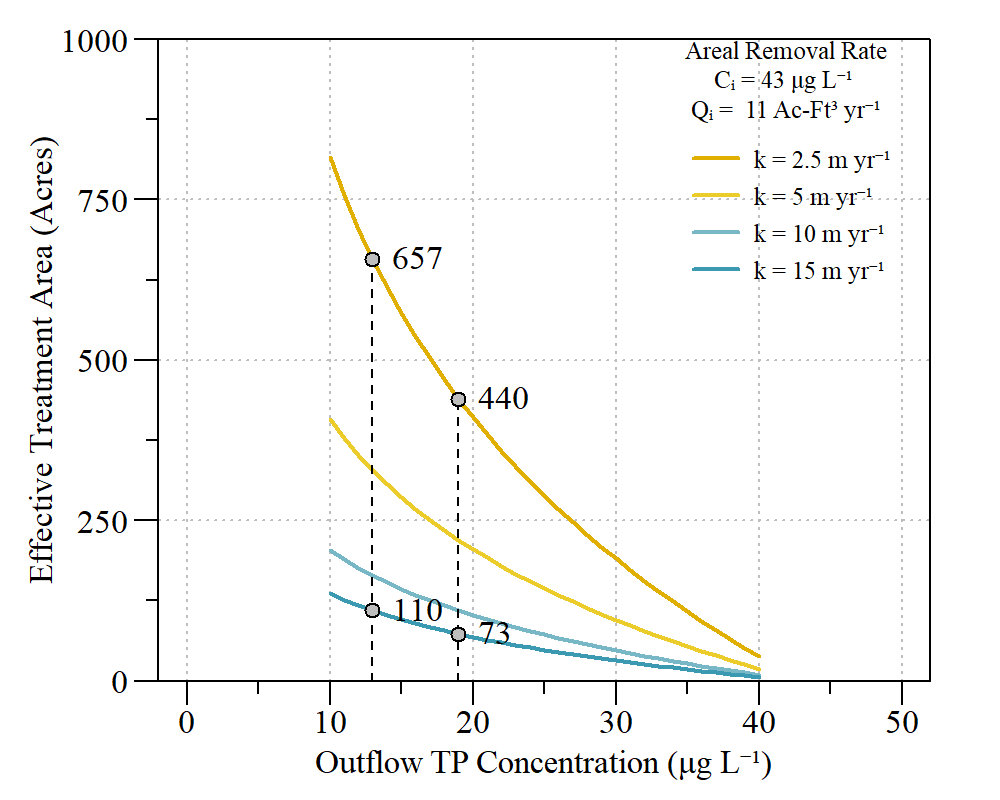
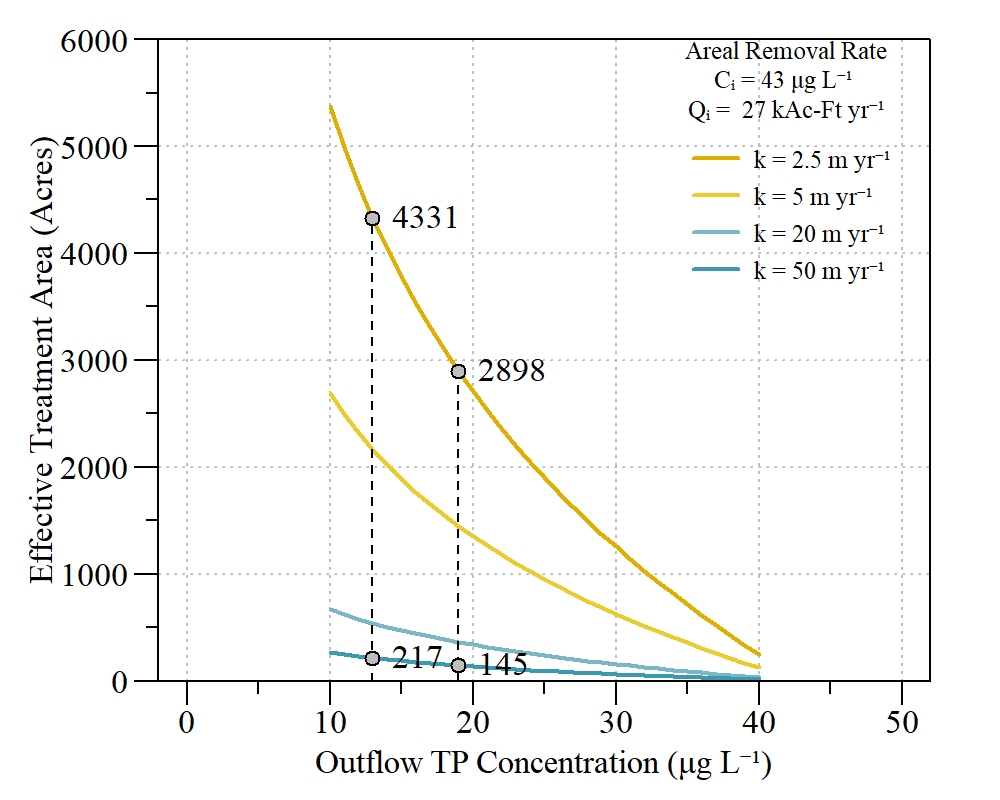
errors in analysis

diff --git a/slides/20230117_WERP_Listening.html b/slides/20230117_WERP_Listening.html
@@ -83,7 +83,7 @@ name: WFEEDERWQ
 * As detailed in *"Numeric Interpretation of Narrative Standards for the L-28 Interceptor Canal and Big Cypress National Preserve."* &lt;sup&gt;1&lt;/sup&gt; a numeric interpretation of the narrative water quality standard was developed for WERP to be protective of the downstream OFW (Big Cypress National Preserve).
 
 
-&lt;template id="55512d3d-b409-4fb4-874d-fc2a1379244f"&gt;&lt;style&gt;
+&lt;template id="f0b84952-d7ed-46c0-8ea0-a3a175d5d657"&gt;&lt;style&gt;
 .tabwid table{
   border-collapse:collapse;
   line-height:1;
@@ -117,11 +117,11 @@ name: WFEEDERWQ
 .tabwid table tr {
 background-color: transparent;
 }
-&lt;/style&gt;&lt;div class="tabwid"&gt;&lt;style&gt;.cl-326d9ef6{border-collapse:collapse;}.cl-3263a48c{font-family:'Times New Roman';font-size:12pt;font-weight:normal;font-style:normal;text-decoration:none;color:rgba(0, 0, 0, 1.00);background-color:transparent;}.cl-3263a48d{font-family:'Times New Roman';font-size:11pt;font-weight:normal;font-style:normal;text-decoration:none;color:rgba(0, 0, 0, 1.00);background-color:transparent;}.cl-3263a48e{font-family:'Times New Roman';font-size:6.6pt;font-weight:normal;font-style:normal;text-decoration:none;color:rgba(0, 0, 0, 1.00);background-color:transparent;position: relative;bottom:3.3pt;}.cl-3263a48f{font-family:'Arial';font-size:6.6pt;font-weight:normal;font-style:normal;text-decoration:none;color:rgba(0, 0, 0, 1.00);background-color:transparent;position: relative;bottom:3.3pt;}.cl-3263a490{font-family:'Arial';font-size:11pt;font-weight:normal;font-style:normal;text-decoration:none;color:rgba(0, 0, 0, 1.00);background-color:transparent;}.cl-3263cb74{margin:0;text-align:left;border-bottom: 0 solid rgba(0, 0, 0, 1.00);border-top: 0 solid rgba(0, 0, 0, 1.00);border-left: 0 solid rgba(0, 0, 0, 1.00);border-right: 0 solid rgba(0, 0, 0, 1.00);padding-bottom:1.5pt;padding-top:1.5pt;padding-left:1.5pt;padding-right:1.5pt;line-height: 1;background-color:transparent;}.cl-3263cb75{margin:0;text-align:center;border-bottom: 0 solid rgba(0, 0, 0, 1.00);border-top: 0 solid rgba(0, 0, 0, 1.00);border-left: 0 solid rgba(0, 0, 0, 1.00);border-right: 0 solid rgba(0, 0, 0, 1.00);padding-bottom:1.5pt;padding-top:1.5pt;padding-left:1.5pt;padding-right:1.5pt;line-height: 1;background-color:transparent;}.cl-3263cb76{margin:0;text-align:left;border-bottom: 0 solid rgba(0, 0, 0, 1.00);border-top: 0 solid rgba(0, 0, 0, 1.00);border-left: 0 solid rgba(0, 0, 0, 1.00);border-right: 0 solid rgba(0, 0, 0, 1.00);padding-bottom:1.5pt;padding-top:1.5pt;padding-left:1.5pt;padding-right:1.5pt;line-height: 1;background-color:transparent;}.cl-3263cb77{margin:0;text-align:center;border-bottom: 0 solid rgba(0, 0, 0, 1.00);border-top: 0 solid rgba(0, 0, 0, 1.00);border-left: 0 solid rgba(0, 0, 0, 1.00);border-right: 0 solid rgba(0, 0, 0, 1.00);padding-bottom:1.5pt;padding-top:1.5pt;padding-left:1.5pt;padding-right:1.5pt;line-height: 1;background-color:transparent;}.cl-3263cb78{margin:0;text-align:left;border-bottom: 0 solid rgba(0, 0, 0, 1.00);border-top: 0 solid rgba(0, 0, 0, 1.00);border-left: 0 solid rgba(0, 0, 0, 1.00);border-right: 0 solid rgba(0, 0, 0, 1.00);padding-bottom:5pt;padding-top:5pt;padding-left:5pt;padding-right:5pt;line-height: 1;background-color:transparent;}.cl-326429a2{width:54pt;background-color:transparent;vertical-align: bottom;border-bottom: 0 solid rgba(0, 0, 0, 1.00);border-top: 0 solid rgba(0, 0, 0, 1.00);border-left: 0 solid rgba(0, 0, 0, 1.00);border-right: 0 solid rgba(0, 0, 0, 1.00);margin-bottom:0;margin-top:0;margin-left:0;margin-right:0;}.cl-326429a3{width:108pt;background-color:transparent;vertical-align: bottom;border-bottom: 0 solid rgba(0, 0, 0, 1.00);border-top: 0 solid rgba(0, 0, 0, 1.00);border-left: 0 solid rgba(0, 0, 0, 1.00);border-right: 0 solid rgba(0, 0, 0, 1.00);margin-bottom:0;margin-top:0;margin-left:0;margin-right:0;}.cl-326429a4{width:54pt;background-color:transparent;vertical-align: bottom;border-bottom: 2pt solid rgba(102, 102, 102, 1.00);border-top: 0 solid rgba(0, 0, 0, 1.00);border-left: 0 solid rgba(0, 0, 0, 1.00);border-right: 0 solid rgba(0, 0, 0, 1.00);margin-bottom:0;margin-top:0;margin-left:0;margin-right:0;}.cl-326429a5{width:108pt;background-color:transparent;vertical-align: bottom;border-bottom: 2pt solid rgba(102, 102, 102, 1.00);border-top: 0 solid rgba(0, 0, 0, 1.00);border-left: 0 solid rgba(0, 0, 0, 1.00);border-right: 0 solid rgba(0, 0, 0, 1.00);margin-bottom:0;margin-top:0;margin-left:0;margin-right:0;}.cl-326429a6{width:54pt;background-color:transparent;vertical-align: middle;border-bottom: 0 solid rgba(255, 255, 255, 0.00);border-top: 0 solid rgba(255, 255, 255, 0.00);border-left: 0 solid rgba(255, 255, 255, 0.00);border-right: 0 solid rgba(255, 255, 255, 0.00);margin-bottom:0;margin-top:0;margin-left:0;margin-right:0;}.cl-326429a7{width:108pt;background-color:transparent;vertical-align: middle;border-bottom: 0 solid rgba(255, 255, 255, 0.00);border-top: 0 solid rgba(255, 255, 255, 0.00);border-left: 0 solid rgba(255, 255, 255, 0.00);border-right: 0 solid rgba(255, 255, 255, 0.00);margin-bottom:0;margin-top:0;margin-left:0;margin-right:0;}.cl-326429a8{width:108pt;background-color:transparent;vertical-align: middle;border-bottom: 2pt solid rgba(102, 102, 102, 1.00);border-top: 2pt solid rgba(102, 102, 102, 1.00);border-left: 0 solid rgba(0, 0, 0, 1.00);border-right: 0 solid rgba(0, 0, 0, 1.00);margin-bottom:0;margin-top:0;margin-left:0;margin-right:0;}.cl-326429a9{width:54pt;background-color:transparent;vertical-align: middle;border-bottom: 2pt solid rgba(102, 102, 102, 1.00);border-top: 2pt solid rgba(102, 102, 102, 1.00);border-left: 0 solid rgba(0, 0, 0, 1.00);border-right: 0 solid rgba(0, 0, 0, 1.00);margin-bottom:0;margin-top:0;margin-left:0;margin-right:0;}&lt;/style&gt;&lt;table class='cl-326d9ef6'&gt;&lt;thead&gt;&lt;tr style="overflow-wrap:break-word;"&gt;&lt;td class="cl-326429a8"&gt;&lt;p class="cl-3263cb74"&gt;&lt;span class="cl-3263a48c"&gt; &lt;/span&gt;&lt;/p&gt;&lt;/td&gt;&lt;td class="cl-326429a9"&gt;&lt;p class="cl-3263cb75"&gt;&lt;span class="cl-3263a48c"&gt;Total&lt;br&gt;Phosphorus&lt;br&gt;(μg L⁻¹)&lt;/span&gt;&lt;/p&gt;&lt;/td&gt;&lt;td class="cl-326429a9"&gt;&lt;p class="cl-3263cb75"&gt;&lt;span class="cl-3263a48c"&gt;Total&lt;br&gt;Nitrogen&lt;br&gt;(mg L⁻¹)&lt;/span&gt;&lt;/p&gt;&lt;/td&gt;&lt;/tr&gt;&lt;/thead&gt;&lt;tbody&gt;&lt;tr style="overflow-wrap:break-word;"&gt;&lt;td class="cl-326429a3"&gt;&lt;p class="cl-3263cb76"&gt;&lt;span class="cl-3263a48d"&gt;Long-term (5-Year)&lt;/span&gt;&lt;span class="cl-3263a48e"&gt; 1 &lt;/span&gt;&lt;span class="cl-3263a48e"&gt; &lt;/span&gt;&lt;/p&gt;&lt;/td&gt;&lt;td class="cl-326429a2"&gt;&lt;p class="cl-3263cb77"&gt;&lt;span class="cl-3263a48d"&gt;13&lt;/span&gt;&lt;/p&gt;&lt;/td&gt;&lt;td class="cl-326429a2"&gt;&lt;p class="cl-3263cb77"&gt;&lt;span class="cl-3263a48d"&gt;1.00&lt;/span&gt;&lt;/p&gt;&lt;/td&gt;&lt;/tr&gt;&lt;tr style="overflow-wrap:break-word;"&gt;&lt;td class="cl-326429a5"&gt;&lt;p class="cl-3263cb76"&gt;&lt;span class="cl-3263a48d"&gt;Annual&lt;/span&gt;&lt;/p&gt;&lt;/td&gt;&lt;td class="cl-326429a4"&gt;&lt;p class="cl-3263cb77"&gt;&lt;span class="cl-3263a48d"&gt;21&lt;/span&gt;&lt;/p&gt;&lt;/td&gt;&lt;td class="cl-326429a4"&gt;&lt;p class="cl-3263cb77"&gt;&lt;span class="cl-3263a48d"&gt;1.24&lt;/span&gt;&lt;/p&gt;&lt;/td&gt;&lt;/tr&gt;&lt;/tbody&gt;&lt;tfoot&gt;&lt;tr style="overflow-wrap:break-word;"&gt;&lt;td  colspan="3"class="cl-326429a7"&gt;&lt;p class="cl-3263cb78"&gt;&lt;span class="cl-3263a48f"&gt; 1 &lt;/span&gt;&lt;span class="cl-3263a490"&gt;Long Term = Five (5) Florida Water Years (May - April).&lt;/span&gt;&lt;span class="cl-3263a490"&gt;; &lt;/span&gt;&lt;span class="cl-3263a48f"&gt; &lt;/span&gt;&lt;span class="cl-3263a490"&gt;Average geomtric mean concentraion.&lt;/span&gt;&lt;/p&gt;&lt;/td&gt;&lt;/tr&gt;&lt;/tfoot&gt;&lt;/table&gt;&lt;/div&gt;&lt;/template&gt;
-&lt;div class="flextable-shadow-host" id="9d11f7b6-8f8f-42b8-9557-e6dd01f1c1e2"&gt;&lt;/div&gt;
+&lt;/style&gt;&lt;div class="tabwid"&gt;&lt;style&gt;.cl-82f819e8{border-collapse:collapse;}.cl-82efd7b0{font-family:'Times New Roman';font-size:12pt;font-weight:normal;font-style:normal;text-decoration:none;color:rgba(0, 0, 0, 1.00);background-color:transparent;}.cl-82efd7b1{font-family:'Times New Roman';font-size:11pt;font-weight:normal;font-style:normal;text-decoration:none;color:rgba(0, 0, 0, 1.00);background-color:transparent;}.cl-82efd7b2{font-family:'Times New Roman';font-size:6.6pt;font-weight:normal;font-style:normal;text-decoration:none;color:rgba(0, 0, 0, 1.00);background-color:transparent;position: relative;bottom:3.3pt;}.cl-82efd7b3{font-family:'Arial';font-size:6.6pt;font-weight:normal;font-style:normal;text-decoration:none;color:rgba(0, 0, 0, 1.00);background-color:transparent;position: relative;bottom:3.3pt;}.cl-82efd7b4{font-family:'Arial';font-size:11pt;font-weight:normal;font-style:normal;text-decoration:none;color:rgba(0, 0, 0, 1.00);background-color:transparent;}.cl-82effed4{margin:0;text-align:left;border-bottom: 0 solid rgba(0, 0, 0, 1.00);border-top: 0 solid rgba(0, 0, 0, 1.00);border-left: 0 solid rgba(0, 0, 0, 1.00);border-right: 0 solid rgba(0, 0, 0, 1.00);padding-bottom:1.5pt;padding-top:1.5pt;padding-left:1.5pt;padding-right:1.5pt;line-height: 1;background-color:transparent;}.cl-82effed5{margin:0;text-align:center;border-bottom: 0 solid rgba(0, 0, 0, 1.00);border-top: 0 solid rgba(0, 0, 0, 1.00);border-left: 0 solid rgba(0, 0, 0, 1.00);border-right: 0 solid rgba(0, 0, 0, 1.00);padding-bottom:1.5pt;padding-top:1.5pt;padding-left:1.5pt;padding-right:1.5pt;line-height: 1;background-color:transparent;}.cl-82effed6{margin:0;text-align:left;border-bottom: 0 solid rgba(0, 0, 0, 1.00);border-top: 0 solid rgba(0, 0, 0, 1.00);border-left: 0 solid rgba(0, 0, 0, 1.00);border-right: 0 solid rgba(0, 0, 0, 1.00);padding-bottom:1.5pt;padding-top:1.5pt;padding-left:1.5pt;padding-right:1.5pt;line-height: 1;background-color:transparent;}.cl-82effed7{margin:0;text-align:center;border-bottom: 0 solid rgba(0, 0, 0, 1.00);border-top: 0 solid rgba(0, 0, 0, 1.00);border-left: 0 solid rgba(0, 0, 0, 1.00);border-right: 0 solid rgba(0, 0, 0, 1.00);padding-bottom:1.5pt;padding-top:1.5pt;padding-left:1.5pt;padding-right:1.5pt;line-height: 1;background-color:transparent;}.cl-82effed8{margin:0;text-align:left;border-bottom: 0 solid rgba(0, 0, 0, 1.00);border-top: 0 solid rgba(0, 0, 0, 1.00);border-left: 0 solid rgba(0, 0, 0, 1.00);border-right: 0 solid rgba(0, 0, 0, 1.00);padding-bottom:5pt;padding-top:5pt;padding-left:5pt;padding-right:5pt;line-height: 1;background-color:transparent;}.cl-82f02684{width:54pt;background-color:transparent;vertical-align: bottom;border-bottom: 0 solid rgba(0, 0, 0, 1.00);border-top: 0 solid rgba(0, 0, 0, 1.00);border-left: 0 solid rgba(0, 0, 0, 1.00);border-right: 0 solid rgba(0, 0, 0, 1.00);margin-bottom:0;margin-top:0;margin-left:0;margin-right:0;}.cl-82f02685{width:108pt;background-color:transparent;vertical-align: bottom;border-bottom: 0 solid rgba(0, 0, 0, 1.00);border-top: 0 solid rgba(0, 0, 0, 1.00);border-left: 0 solid rgba(0, 0, 0, 1.00);border-right: 0 solid rgba(0, 0, 0, 1.00);margin-bottom:0;margin-top:0;margin-left:0;margin-right:0;}.cl-82f02686{width:54pt;background-color:transparent;vertical-align: bottom;border-bottom: 2pt solid rgba(102, 102, 102, 1.00);border-top: 0 solid rgba(0, 0, 0, 1.00);border-left: 0 solid rgba(0, 0, 0, 1.00);border-right: 0 solid rgba(0, 0, 0, 1.00);margin-bottom:0;margin-top:0;margin-left:0;margin-right:0;}.cl-82f02687{width:108pt;background-color:transparent;vertical-align: bottom;border-bottom: 2pt solid rgba(102, 102, 102, 1.00);border-top: 0 solid rgba(0, 0, 0, 1.00);border-left: 0 solid rgba(0, 0, 0, 1.00);border-right: 0 solid rgba(0, 0, 0, 1.00);margin-bottom:0;margin-top:0;margin-left:0;margin-right:0;}.cl-82f02688{width:54pt;background-color:transparent;vertical-align: middle;border-bottom: 0 solid rgba(255, 255, 255, 0.00);border-top: 0 solid rgba(255, 255, 255, 0.00);border-left: 0 solid rgba(255, 255, 255, 0.00);border-right: 0 solid rgba(255, 255, 255, 0.00);margin-bottom:0;margin-top:0;margin-left:0;margin-right:0;}.cl-82f02689{width:108pt;background-color:transparent;vertical-align: middle;border-bottom: 0 solid rgba(255, 255, 255, 0.00);border-top: 0 solid rgba(255, 255, 255, 0.00);border-left: 0 solid rgba(255, 255, 255, 0.00);border-right: 0 solid rgba(255, 255, 255, 0.00);margin-bottom:0;margin-top:0;margin-left:0;margin-right:0;}.cl-82f0268a{width:108pt;background-color:transparent;vertical-align: middle;border-bottom: 2pt solid rgba(102, 102, 102, 1.00);border-top: 2pt solid rgba(102, 102, 102, 1.00);border-left: 0 solid rgba(0, 0, 0, 1.00);border-right: 0 solid rgba(0, 0, 0, 1.00);margin-bottom:0;margin-top:0;margin-left:0;margin-right:0;}.cl-82f0268b{width:54pt;background-color:transparent;vertical-align: middle;border-bottom: 2pt solid rgba(102, 102, 102, 1.00);border-top: 2pt solid rgba(102, 102, 102, 1.00);border-left: 0 solid rgba(0, 0, 0, 1.00);border-right: 0 solid rgba(0, 0, 0, 1.00);margin-bottom:0;margin-top:0;margin-left:0;margin-right:0;}&lt;/style&gt;&lt;table class='cl-82f819e8'&gt;&lt;thead&gt;&lt;tr style="overflow-wrap:break-word;"&gt;&lt;td class="cl-82f0268a"&gt;&lt;p class="cl-82effed4"&gt;&lt;span class="cl-82efd7b0"&gt; &lt;/span&gt;&lt;/p&gt;&lt;/td&gt;&lt;td class="cl-82f0268b"&gt;&lt;p class="cl-82effed5"&gt;&lt;span class="cl-82efd7b0"&gt;Total&lt;br&gt;Phosphorus&lt;br&gt;(μg L⁻¹)&lt;/span&gt;&lt;/p&gt;&lt;/td&gt;&lt;td class="cl-82f0268b"&gt;&lt;p class="cl-82effed5"&gt;&lt;span class="cl-82efd7b0"&gt;Total&lt;br&gt;Nitrogen&lt;br&gt;(mg L⁻¹)&lt;/span&gt;&lt;/p&gt;&lt;/td&gt;&lt;/tr&gt;&lt;/thead&gt;&lt;tbody&gt;&lt;tr style="overflow-wrap:break-word;"&gt;&lt;td class="cl-82f02685"&gt;&lt;p class="cl-82effed6"&gt;&lt;span class="cl-82efd7b1"&gt;Long-term (5-Year)&lt;/span&gt;&lt;span class="cl-82efd7b2"&gt; 1 &lt;/span&gt;&lt;span class="cl-82efd7b2"&gt; &lt;/span&gt;&lt;/p&gt;&lt;/td&gt;&lt;td class="cl-82f02684"&gt;&lt;p class="cl-82effed7"&gt;&lt;span class="cl-82efd7b1"&gt;13&lt;/span&gt;&lt;/p&gt;&lt;/td&gt;&lt;td class="cl-82f02684"&gt;&lt;p class="cl-82effed7"&gt;&lt;span class="cl-82efd7b1"&gt;1.00&lt;/span&gt;&lt;/p&gt;&lt;/td&gt;&lt;/tr&gt;&lt;tr style="overflow-wrap:break-word;"&gt;&lt;td class="cl-82f02687"&gt;&lt;p class="cl-82effed6"&gt;&lt;span class="cl-82efd7b1"&gt;Annual&lt;/span&gt;&lt;/p&gt;&lt;/td&gt;&lt;td class="cl-82f02686"&gt;&lt;p class="cl-82effed7"&gt;&lt;span class="cl-82efd7b1"&gt;21&lt;/span&gt;&lt;/p&gt;&lt;/td&gt;&lt;td class="cl-82f02686"&gt;&lt;p class="cl-82effed7"&gt;&lt;span class="cl-82efd7b1"&gt;1.24&lt;/span&gt;&lt;/p&gt;&lt;/td&gt;&lt;/tr&gt;&lt;/tbody&gt;&lt;tfoot&gt;&lt;tr style="overflow-wrap:break-word;"&gt;&lt;td  colspan="3"class="cl-82f02689"&gt;&lt;p class="cl-82effed8"&gt;&lt;span class="cl-82efd7b3"&gt; 1 &lt;/span&gt;&lt;span class="cl-82efd7b4"&gt;Long Term = Five (5) Florida Water Years (May - April).&lt;/span&gt;&lt;span class="cl-82efd7b4"&gt;; &lt;/span&gt;&lt;span class="cl-82efd7b3"&gt; &lt;/span&gt;&lt;span class="cl-82efd7b4"&gt;Average geomtric mean concentraion.&lt;/span&gt;&lt;/p&gt;&lt;/td&gt;&lt;/tr&gt;&lt;/tfoot&gt;&lt;/table&gt;&lt;/div&gt;&lt;/template&gt;
+&lt;div class="flextable-shadow-host" id="3c064ebb-1fdb-498e-bc87-8162cc2efa92"&gt;&lt;/div&gt;
 &lt;script&gt;
-var dest = document.getElementById("9d11f7b6-8f8f-42b8-9557-e6dd01f1c1e2");
-var template = document.getElementById("55512d3d-b409-4fb4-874d-fc2a1379244f");
+var dest = document.getElementById("3c064ebb-1fdb-498e-bc87-8162cc2efa92");
+var template = document.getElementById("f0b84952-d7ed-46c0-8ea0-a3a175d5d657");
 var caption = template.content.querySelector("caption");
 if(caption) {
   caption.style.cssText = "display:block;text-align:center;";
@@ -250,7 +250,9 @@ q = HLR (m/d)
 
 k-values within range of current STAs - [summary](#STA_k)
 
-Assumes plug-and-flow conditions applicable to long-linear filter marsh. Some refinement may be needed.
+Average Q based on difference between WECB and ALTHR ([summary](#averageQ)) and a 60:40 split between Lardcan and Wingate mill canals
+
+
 
 ]
 .pull-right[
@@ -259,6 +261,10 @@ Assumes plug-and-flow conditions applicable to long-linear filter marsh. Some re
 &lt;p class="caption"&gt;Plug and Flow sensitivity analysis for Lardcan and Wingate Mill Filter marsh.&lt;/p&gt;
 &lt;/div&gt;
 ]
+
+???
+Assumes plug-and-flow conditions applicable to long-linear filter marsh. Some refinement may be needed.
+
 ---
 name: Treat2
 
@@ -383,17 +389,30 @@ class: inverse
 &lt;!-- Blank Slide between presentation and extra slides --&gt;
 
 ---
+name: averageQ
+
+&lt;div class="figure" style="text-align: center"&gt;
+&lt;img src="./plots/AvgFloodControl.png" alt="Average annual discharge volume at WestWeir" width="80%" /&gt;
+&lt;p class="caption"&gt;Average annual discharge volume at WestWeir&lt;/p&gt;
+&lt;/div&gt;
+
+---
 name: area_sens
 &lt;div class="figure" style="text-align: center"&gt;
 &lt;img src="./plots/WERP_FM_LC_areaPnF.png" alt="Range of area needed to treat inflow across various k rates for Lardcan canal filter marsh." width="80%" /&gt;
 &lt;p class="caption"&gt;Range of area needed to treat inflow across various k rates for Lardcan canal filter marsh.&lt;/p&gt;
 &lt;/div&gt;
 
+---
+name: vol_sens
+
+&lt;div class="figure" style="text-align: center"&gt;
+&lt;img src="./plots/WERP_FM_LC_Q_Co.png" alt="Outflow TP concentration relative inflow volume across the various k rates for Lardcan canal filter marsh." width="80%" /&gt;
+&lt;p class="caption"&gt;Outflow TP concentration relative inflow volume across the various k rates for Lardcan canal filter marsh.&lt;/p&gt;
+&lt;/div&gt;
 
 ---
 name: STA_k
-
-
 
 &lt;div class="figure" style="text-align: center"&gt;
 &lt;img src="./plots/PriorPresentations/STA_kvalues.png" alt="Calculated mean (± standard error) annual total phosphorus areal removal rates for Florida water year 2014 to 2021 (May 2013 – April 2021) observed in the Everglades Stormwater Treatment Areas and Northern Estuaries Protection Program Stormwater Treatment Areas. The horizontal solid line represents the mean areal removal rate across all STAs (12.2 m/yr)." width="100%" /&gt;
